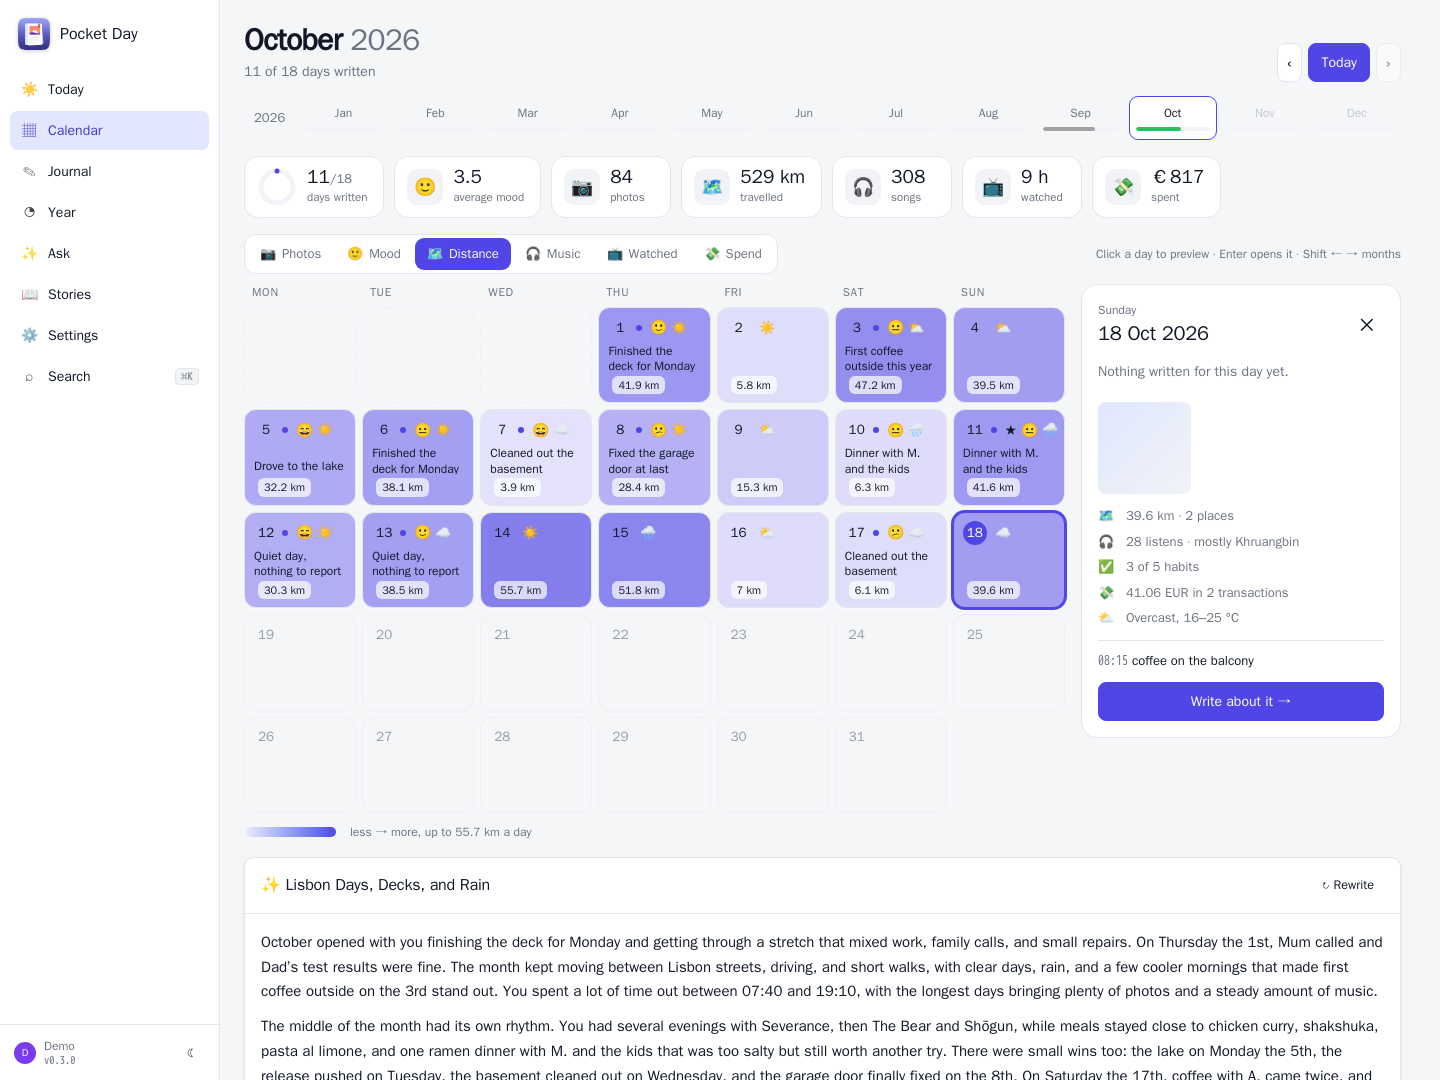
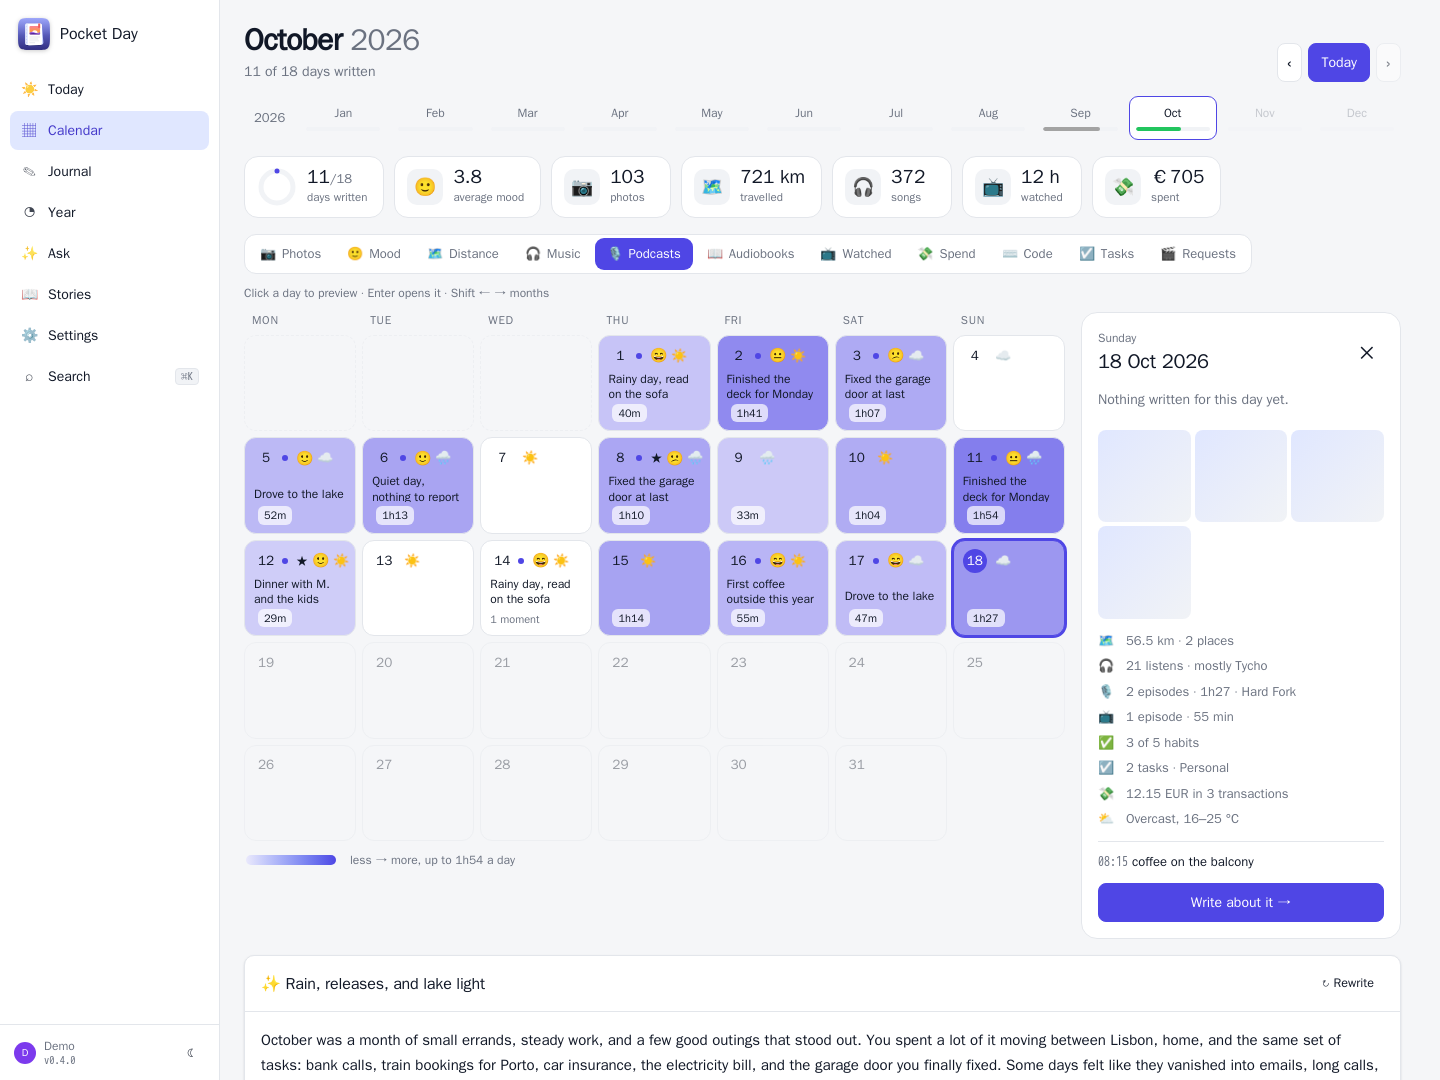
README screenshots with the new sources (podcasts, audiobooks, commits, tasks, requests, documents); demo picks distinct episodes, repos and tasks

diff --git a/internal/server/demo.go b/internal/server/demo.go
@@ -102,6 +102,24 @@ func (s *Server) seedDemo(ctx context.Context) error {
 		c := conds[rng.Intn(len(conds))]
 		w := sources.Day{Code: 1, Condition: c, TMax: f64(12 + rng.Float64()*14), TMin: f64(4 + rng.Float64()*8), PrecipMM: f64(float64(rng.Intn(6))), Place: "Lisbon"}
 		put("weather", w, *w.TMax, fmt.Sprintf("%s, %.0f–%.0f °C", sources.ConditionLabel(c), *w.TMin, *w.TMax))
+		for src, a := range demoActivities(rng, d, i) {
+			if a.Count == 0 {
+				continue
+			}
+			head := float64(a.Count)
+			switch sources.Activities[src].Unit {
+			case "min":
+				head = a.Minutes
+			case "qty":
+				head = a.Qty
+			}
+			m := sources.Activities[src]
+			sum := sources.ActivitySummary(a, m.One, m.Many)
+			if m.Unit == "qty" {
+				sum = fmt.Sprintf("%d commits in %s", int(a.Qty), sources.Plural(a.Count, "repository", "repositories"))
+			}
+			put(src, a, head, sum)
+		}
 		if rng.Intn(3) == 0 {
 			ck := sources.Cooked{Cooks: []sources.Cook{{Title: []string{"Shakshuka", "Pasta al limone", "Chicken curry", "Pancakes"}[rng.Intn(4)], Servings: 2, Rating: 4}}}
 			put("kitchen", ck, 1, "cooked "+ck.Cooks[0].Title)
@@ -153,4 +171,72 @@ var demoSongs = map[string][]string{
 	"Radiohead":        {"Weird Fishes", "Reckoner", "Daydreaming", "No Surprises"},
 	"Bonobo":           {"Kerala", "Cirrus", "Kiara", "First Fires"},
 	"Tycho":            {"Awake", "Dive", "A Walk", "Epoch"},
+}
+
+// demoActivities invents a plausible day for the activity sources.
+func demoActivities(rng *rand.Rand, date string, daysAgo int) map[string]sources.Activity {
+	out := map[string]sources.Activity{}
+	clock := func(h int) string { return fmt.Sprintf("%02d:%02d", h, rng.Intn(60)) }
+	// podcasts on most days
+	if rng.Intn(4) > 0 {
+		shows := []struct{ show, ep string }{{"Hard Fork", "The AI agents are coming for your calendar"}, {"99% Invisible", "The Smell of Concrete After Rain"}, {"Radiolab", "The Clock That Kept Lisbon"}, {"Decoder", "Why every app wants to be a super app"}, {"Song Exploder", "Khruangbin – Maria También"}}
+		a := sources.Activity{}
+		perm := rng.Perm(len(shows))
+		for k := 0; k < 1+rng.Intn(3); k++ {
+			x := shows[perm[k]] // a different episode each time
+			mins := float64(12 + rng.Intn(50))
+			a.Items = append(a.Items, sources.ActivityItem{Time: clock(7 + k*5), Title: x.ep, Sub: x.show, Minutes: mins, Done: rng.Intn(2) == 0, Ref: fmt.Sprintf("%s-%d", date, k)})
+		}
+		a.Finish()
+		out["pinepods"] = a
+	}
+	// an audiobook in the evening, now and then
+	if rng.Intn(3) == 0 {
+		a := sources.Activity{Items: []sources.ActivityItem{{Time: clock(21), Title: "Project Hail Mary", Sub: "Andy Weir", Minutes: float64(20 + rng.Intn(60)), Ref: "phm"}}}
+		a.Finish()
+		out["audiobookshelf"] = a
+	}
+	// commits on weekdays
+	if t, _ := store.ParseDate(date); t.Weekday() != 0 && t.Weekday() != 6 && rng.Intn(4) > 0 {
+		repos := []struct{ repo, msg string }{{"pocket-day", "Calendar: colour the days by podcasts"}, {"homelab", "Back up the new app"}, {"dotfiles", "Tidy the shell prompt"}, {"garden-planner", "Frost dates for Lisbon"}}
+		a := sources.Activity{}
+		perm := rng.Perm(len(repos))
+		for k := 0; k < 1+rng.Intn(3); k++ {
+			r := repos[perm[k]]
+			n := 1 + rng.Intn(9)
+			a.Items = append(a.Items, sources.ActivityItem{Time: clock(9 + k*3), End: clock(12 + k*3), Title: r.repo, Sub: sources.Plural(n, "commit", "commits") + " · " + r.msg, Group: r.repo, Qty: float64(n), Ref: r.repo + fmt.Sprint(k)})
+		}
+		a.Finish()
+		out["forgejo"] = a
+	}
+	// tasks done
+	if rng.Intn(3) > 0 {
+		tasks := []struct{ t, list string }{{"Buy milk and eggs", "Shopping"}, {"Call the dentist", "Personal"}, {"Renew the car insurance", "Personal"}, {"Water the balcony plants", "Home"}, {"Pick up the parcel", "Personal"}, {"Book the train to Porto", "Travel"}}
+		a := sources.Activity{}
+		tperm := rng.Perm(len(tasks))
+		for k := 0; k < 1+rng.Intn(3); k++ {
+			x := tasks[tperm[k]]
+			a.Items = append(a.Items, sources.ActivityItem{Time: clock(10 + k*3), Title: x.t, Sub: x.list, Done: true})
+		}
+		a.Finish()
+		out["nextcloud"] = a
+	}
+	// requests, a few times a week
+	if rng.Intn(3) == 0 {
+		titles := []string{"Severance", "Dune: Part Two", "The Bear", "Arrival", "Slow Horses", "Past Lives"}
+		x := titles[rng.Intn(len(titles))]
+		a := sources.Activity{Items: []sources.ActivityItem{{Time: clock(19), Title: x, Sub: "requested film", Group: "film"}}}
+		if rng.Intn(2) == 0 {
+			a.Items = append(a.Items, sources.ActivityItem{Time: clock(22), Title: x, Sub: "now available", Group: "film", Done: true})
+		}
+		a.Finish()
+		out["jellyseerr"] = a
+	}
+	// a document once a week
+	if daysAgo%7 == 3 {
+		a := sources.Activity{Items: []sources.ActivityItem{{Time: clock(18), Title: "Electricity bill", Sub: "EDP · Invoice", Group: "Invoice"}}}
+		a.Finish()
+		out["paperless"] = a
+	}
+	return out
 }

diff --git a/README.md b/README.md
@@ -14,7 +14,7 @@
 
 ---
 
-A self-hosted server already records your life in pieces: Dawarich has the route, Immich the photos, Maloja the songs, Jellystat the episodes, Firefly III the receipts, the Pocket apps the habits, books, trips and dinners. Nobody puts them on one page. Pocket Day does, and gives you one line a day to say what it meant.
+A self-hosted server already records your life in pieces: Dawarich has the route, Immich the photos, Maloja the songs, PinePods and Audiobookshelf what you listened to, Jellystat the episodes, Forgejo the commits, Nextcloud the tasks, Paperless the letters, Firefly III the receipts, the Pocket apps the habits, books, trips and dinners. Nobody puts them on one page. Pocket Day does, and gives you one line a day to say what it meant.
 
 - **Today, filled in.** Every 30 minutes today and yesterday are pulled from every connected app. Open the page in the evening and the day is already there: kilometres and stops, a photo grid, the listening and watching, the check-in, the book you finished, what you cooked and spent, the weather where you were.
 - **One line, then more if you like.** A highlight, a free text, a mood from 😖 to 😄 and tags. Autosaves while you type.
@@ -31,11 +31,11 @@ A self-hosted server already records your life in pieces: Dawarich has the route
 <table>
   <tr>
     <td width="50%"><img src="docs/screenshots/calendar.png" alt="Calendar coloured by each day's photo, with month tiles, the year strip and a preview of the selected day"></td>
-    <td width="50%"><img src="docs/screenshots/calendar-heatmap.png" alt="The same month as a distance heatmap with kilometres per day"></td>
+    <td width="50%"><img src="docs/screenshots/calendar-heatmap.png" alt="The same month as a podcast heatmap with listening time per day"></td>
   </tr>
   <tr>
     <td align="center"><sub>Calendar: every day behind its best photo, a preview without leaving the month.</sub></td>
-    <td align="center"><sub>…or coloured by mood, distance, music, watching or spending.</sub></td>
+    <td align="center"><sub>…or coloured by podcasts, audiobooks, commits, tasks, mood, distance, music, watching or spending.</sub></td>
   </tr>
   <tr>
     <td width="50%"><img src="docs/screenshots/year.png" alt="Year in review: tiles, the AI story of the year, a heatmap of every day and month bars"></td>
